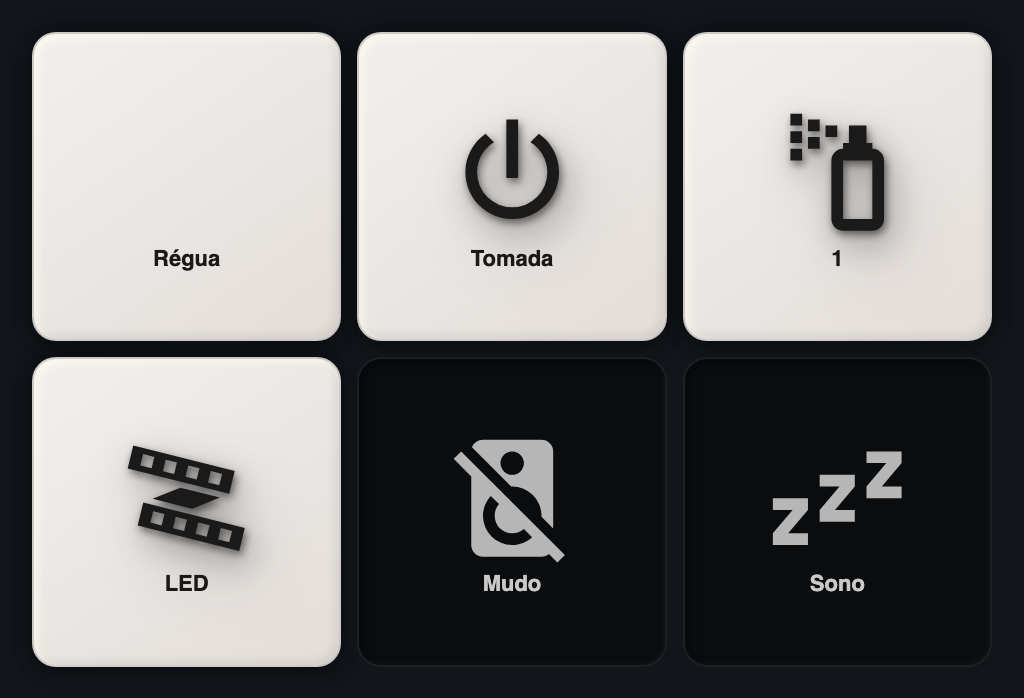
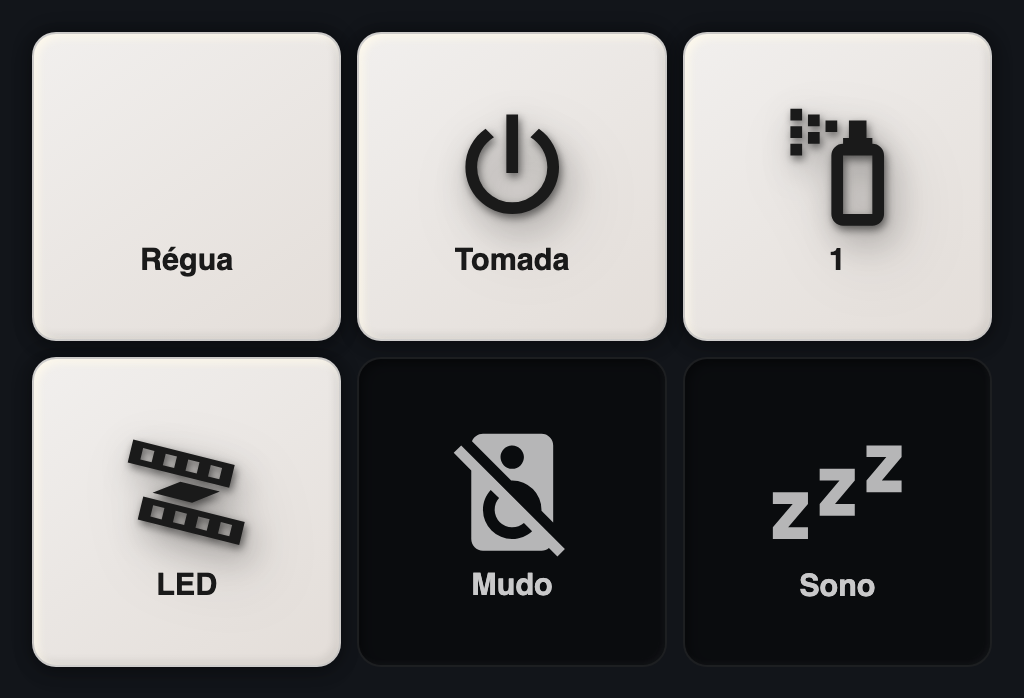
fix: 📐 the square that wasn't — lock the plug tile with size containment
Reported on the first real-screen test: the plug tile stretched, width and
height stopped matching and the button grid beside it fell out of line.

It did not reproduce on the bench at 480px — only on a narrow card. The tile
is a grid item, and every grid item carries min-height:auto. On a wide card
the content fit inside the square and aspect-ratio ruled; on a narrow one the
content started asking for more height than the square's side, the automatic
minimum beat aspect-ratio, and the tile grew.

Two halves, because neither works alone:

  · container-type:size on the tile (plus min-height:0). With size containment
    the content cannot influence the height any more — aspect-ratio has the
    only say. On its own, though, this would make content SPILL instead of
    stretch, which is just as ugly;
  · proportional typography in cqw. Everything inside is now a fraction of the
    square's side, taking 236px (half of a 480 card) as reference: at the
    usual sizes nothing changes, and on a narrow card the content shrinks with
    the box instead of demanding room. The appliance buttons got the same
    treatment.

Two traps that cost real time, both now regression checks:

  · cqw written ON the container itself resolves against ANOTHER container —
    or the viewport when there is none. The tile's border-radius: 7.63cqw
    became a 61px circle. Radius, padding and base font-size stay in px/%;
  · cqw is 1% of the CONTENT box, and the tile has padding: 10% per side. The
[…]

diff --git a/dist/mw-humidifier-card.js b/dist/mw-humidifier-card.js
@@ -128,6 +128,28 @@
     }
   };
 
+  /* Tipografia proporcional ao tile.
+   *
+   * O tile é um quadrado: `cqw` é 1% do lado dele. Tudo aqui dentro é
+   * expresso como fração desse lado, tomando 236 px (a metade de um card de
+   * 480) como referência — nos tamanhos de sempre nada muda de aparência, e
+   * num card estreito o conteúdo ENCOLHE em vez de exigir mais altura.
+   *
+   * Isso é o que garante o quadrado: com `container-type: size` no tile, o
+   * conteúdo não pode mais empurrar a altura; sem a tipografia proporcional,
+   * ele apenas vazaria para fora em vez de esticar.
+   *
+   * ARMADILHA: `cqw` só vale para DESCENDENTES do container. Escrito no
+   * próprio elemento que declara `container-type`, resolve contra o container
+   * ancestral — e, não havendo nenhum, contra o viewport. Foi assim que o
+   * `border-radius` do tile virou um círculo de 61 px. Por isso o raio, o
+   * padding e o font-size base do tile continuam em px/%. */
+  // 236 é o lado do tile (metade de um card de 480), mas `cqw` é 1% do
+  // CONTENT BOX do container — e o tile tem `padding: 10%` de cada lado.
+  // A referência, portanto, é 236 × 0,8. Errar isso encolhe tudo em 20%.
+  const REF = 236 * 0.8;
+  const cq = (px) => `${(Number(px) * 100 / REF).toFixed(2)}cqw`;
+
   // >>> paper-palette v1 — fonte canônica: /Volumes/SSD-T1-01/CLAUDE-SSD/IA/lib/paper-palette/paper-palette.js
   // 49 papéis encardidos: 7 matizes do arco-íris × 7 tons (1 = quase branco,
   // 7 = mais encardido). Saturação baixa de propósito — papel descansa a vista.
@@ -395,16 +417,16 @@
       if (c.image_url) {
         const f = isOff ? "filter:grayscale(40%) brightness(1.8);" : dead ? "filter:grayscale(100%);"
           : "filter:drop-shadow(0 1px 2px rgba(0,0,0,0.32)) drop-shadow(0 3px 5px rgba(0,0,0,0.18)) drop-shadow(0 5px 8px rgba(0,0,0,0.10));";
-        deviceImg = `<img src="${esc(c.image_url)}" alt="device" style="display:block;width:42px;height:42px;object-fit:contain;border-radius:6px;${anim}${opac}${f}transition:opacity .3s ease,filter .3s ease;">`;
+        deviceImg = `<img src="${esc(c.image_url)}" alt="device" style="display:block;width:${cq(42)};height:${cq(42)};object-fit:contain;border-radius:${cq(6)};${anim}${opac}${f}transition:opacity .3s ease,filter .3s ease;">`;
       } else if (c.device_icon) {
         const ic = isOn ? (c.color_on_name || "#1a1a1a") : (c.color_off_name || "rgba(255,255,255,0.5)");
         const f = isOn ? "filter:drop-shadow(0 1px 2px rgba(0,0,0,0.32)) drop-shadow(0 3px 5px rgba(0,0,0,0.18)) drop-shadow(0 5px 8px rgba(0,0,0,0.10));" : "";
-        deviceImg = `<ha-icon icon="${esc(c.device_icon)}" style="--mdc-icon-size:42px;width:42px;height:42px;color:${ic};display:flex;${anim}${opac}${f}transition:opacity .3s ease,color .3s ease;"></ha-icon>`;
+        deviceImg = `<ha-icon icon="${esc(c.device_icon)}" style="--mdc-icon-size:${cq(42)};width:${cq(42)};height:${cq(42)};color:${ic};display:flex;${anim}${opac}${f}transition:opacity .3s ease,color .3s ease;"></ha-icon>`;
       }
 
       let status;
       if (isOn || isOff) {
-        const knobLeft = isOn ? "26px" : "2px";
+        const knobLeft = isOn ? cq(26) : cq(2);
         if (c.control === false) {
           status = `<div class="tgl locked"><div class="track" style="background:${isOn ? "rgba(0,180,0,0.4)" : "rgba(100,100,100,0.4)"}"><div class="knob" style="left:${knobLeft};background:rgba(200,200,200,0.6);"></div></div></div>`;
         } else {
@@ -433,7 +455,7 @@
         const text = noReading(st.state) ? NO_READING
           : `${esc(fmtNumber(st.state, this._hass?.locale?.language))} ${esc(u)}`;
         return `<div class="row sensor" style="grid-area:${area}" data-entity="${esc(sensorId)}">
-          <ha-icon icon="${icon}" style="--mdc-icon-size:14px;width:14px;height:14px;color:${ic};"></ha-icon><span style="color:${tc};">${text}</span></div>`;
+          <ha-icon icon="${icon}" style="--mdc-icon-size:${cq(14)};width:${cq(14)};height:${cq(14)};color:${ic};"></ha-icon><span style="color:${tc};">${text}</span></div>`;
       };
 
       const powerColor = isOn ? c.color_power_on : c.color_power_off;
@@ -441,13 +463,13 @@
       const bigPower = () => {
         const st = this._st(c.sensor_potencia);
         if (!st) return `<div class="row" style="grid-area:power"></div>`;
-        const isz = Math.round(pSize * 0.62);
+        const isz = cq(Math.round(pSize * 0.62));
         const dash = noReading(st.state);
         const { value, unit } = dash
           ? { value: NO_READING, unit: "" }
           : fmtPower(st.state, st.attributes?.unit_of_measurement, this._hass?.locale?.language);
         return `<div class="row big sensor" style="grid-area:power" data-entity="${esc(c.sensor_potencia)}">
-          <ha-icon icon="mdi:flash" style="--mdc-icon-size:${isz}px;width:${isz}px;height:${isz}px;color:${powerColor};"></ha-icon
+          <ha-icon icon="mdi:flash" style="--mdc-icon-size:${isz};width:${isz};height:${isz};color:${powerColor};"></ha-icon
           ><span class="pv">${esc(value)}</span><span class="pu">${esc(unit)}</span></div>`;
       };
 
@@ -455,7 +477,7 @@
       // de margem — não mexe na grade, então o número não muda de tamanho.
       const lift = Number(c.power_lift);
       const liftCss = big && Number.isFinite(lift) && lift !== 0
-        ? `transform:translateY(${-lift}px);` : "";
+        ? `transform:translateY(-${cq(lift)});` : "";
 
       const hum = c.humidity_entity ? row(c.humidity_entity, "mdi:water-percent", "%", "humidity") : "";
       const areas = big
@@ -479,7 +501,7 @@
           : "none";
         const px = Number.isFinite(Number(c.protocol_offset_x)) ? Number(c.protocol_offset_x) : 10;
         const py = Number.isFinite(Number(c.protocol_offset_y)) ? Number(c.protocol_offset_y) : 10;
-        protocol = `<ha-icon class="proto" icon="${esc(c.protocol_icon)}" style="bottom:${py}px;right:${px}px;width:22px;height:22px;color:${pc};filter:${pf};"></ha-icon>`;
+        protocol = `<ha-icon class="proto" icon="${esc(c.protocol_icon)}" style="bottom:${cq(py)};right:${cq(px)};width:${cq(22)};height:${cq(22)};color:${pc};filter:${pf};"></ha-icon>`;
       }
 
       const css = `
@@ -492,34 +514,34 @@
         .wm{position:absolute;top:0;left:0;width:100%;height:100%;z-index:0;pointer-events:none;
           background-size:60%;background-position:center center;background-repeat:no-repeat;border-radius:inherit;}
         .dev{grid-area:device_img;justify-self:start;align-self:start;position:relative;z-index:1;line-height:0;overflow:visible;}
-        .stat{grid-area:status;align-self:start;justify-self:end;font-size:10px;font-weight:500;position:relative;z-index:1;}
-        .nm{grid-area:n;font-weight:600;font-size:14px;color:${nameColor};align-self:center;justify-self:start;
-          padding-top:6px;padding-bottom:6px;white-space:normal;word-wrap:break-word;text-align:left;
+        .stat{grid-area:status;align-self:start;justify-self:end;font-size:${cq(10)};font-weight:500;position:relative;z-index:1;}
+        .nm{grid-area:n;font-weight:600;font-size:${cq(14)};color:${nameColor};align-self:center;justify-self:start;
+          padding-top:${cq(6)};padding-bottom:${cq(6)};white-space:normal;word-wrap:break-word;text-align:left;
           text-transform:none;position:relative;z-index:1;${liftCss}}
         /* text-transform:none na linha, não no card: o uppercase herdado do
            template original transformava "153 mA" em "153 MA" — miliampère
            vira megaampère, seis ordens de grandeza de diferença. */
-        .row{padding-bottom:4px;align-self:center;justify-self:start;font-size:10px;font-weight:500;
-          position:relative;z-index:1;display:inline-flex;align-items:center;gap:5px;
+        .row{padding-bottom:${cq(4)};align-self:center;justify-self:start;font-size:${cq(10)};font-weight:500;
+          position:relative;z-index:1;display:inline-flex;align-items:center;gap:${cq(5)};
           text-transform:none;}
         .row ha-icon{flex:none;line-height:0;display:flex;align-items:center;}
         .row.sensor{cursor:pointer;-webkit-tap-highlight-color:transparent;touch-action:manipulation;}
-        .row.big{gap:6px;align-items:baseline;padding-bottom:2px;${liftCss}}
+        .row.big{gap:${cq(6)};align-items:baseline;padding-bottom:${cq(2)};${liftCss}}
         .row.big ha-icon{align-self:center;flex:none;
           filter:${isOn ? "drop-shadow(0 1px 0 rgba(255,255,255,0.55))" : "none"};}
         /* tabular-nums trava a largura do dígito: o número não dança a cada leitura */
-        .row.big .pv{font-size:${pSize}px;font-weight:700;line-height:1.05;color:${powerColor};
+        .row.big .pv{font-size:${cq(pSize)};font-weight:700;line-height:1.05;color:${powerColor};
           font-variant-numeric:tabular-nums;font-feature-settings:"tnum" 1;letter-spacing:-0.5px;
           text-shadow:${isOn ? "0 1px 0 rgba(255,255,255,0.55)" : "none"};}
-        .row.big .pu{font-size:${Math.round(pSize * 0.4)}px;font-weight:600;color:${powerColor};
+        .row.big .pu{font-size:${cq(Math.round(pSize * 0.4))};font-weight:600;color:${powerColor};
           opacity:.72;letter-spacing:0;}
-        .tile span{font-size:12px;font-weight:500;line-height:1.4;}
+        .tile span{font-size:${cq(12)};font-weight:500;line-height:1.4;}
         .proto{position:absolute;z-index:2;pointer-events:none;line-height:0;}
         .tgl{display:inline-flex;align-items:center;}
         .tgl.live{cursor:pointer;-webkit-tap-highlight-color:transparent;touch-action:manipulation;}
         .tgl.locked{cursor:not-allowed;opacity:0.35;}
-        .track{width:48px;height:24px;border-radius:12px;position:relative;transition:background .3s;pointer-events:none;}
-        .knob{width:20px;height:20px;border-radius:50%;position:absolute;top:2px;transition:left .3s;pointer-events:none;}
+        .track{width:${cq(48)};height:${cq(24)};border-radius:${cq(12)};position:relative;transition:background .3s;pointer-events:none;}
+        .knob{width:${cq(20)};height:${cq(20)};border-radius:50%;position:absolute;top:${cq(2)};transition:left .3s;pointer-events:none;}
         @keyframes mhc-spin{from{transform:rotate(0deg);}to{transform:rotate(360deg);}}`;
 
       const html = `
@@ -596,14 +618,19 @@
 
       const cols = Math.max(1, Number(c.button_columns) || 2);
       const css = `
-        .btns{display:grid;grid-template-columns:repeat(${cols},1fr);gap:${Number(c.gap) || 0}px;align-content:start;}
-        .btn{position:relative;aspect-ratio:1 / 1;display:flex;flex-direction:column;
-          align-items:center;justify-content:center;gap:2px;box-sizing:border-box;overflow:hidden;
-          font-size:11px;font-weight:600;cursor:pointer;-webkit-tap-highlight-color:transparent;
+        .btns{display:grid;grid-template-columns:repeat(${cols},1fr);gap:${Number(c.gap) || 0}px;
+          align-content:start;min-width:0;min-height:0;}
+        /* container-type:size + aspect-ratio = o botão é quadrado e o rótulo
+           não pode mais empurrá-lo; e cqw deixa o texto proporcional ao
+           quadrado, então cabe em qualquer largura de card */
+        .btn{position:relative;aspect-ratio:1 / 1;container-type:size;min-width:0;min-height:0;
+          display:flex;flex-direction:column;
+          align-items:center;justify-content:center;gap:2%;box-sizing:border-box;overflow:hidden;
+          font-weight:600;cursor:pointer;-webkit-tap-highlight-color:transparent;
           touch-action:manipulation;transition:background .3s ease,box-shadow .3s ease,border-color .3s ease,color .3s ease;}
-        .btn ha-icon{display:flex;align-items:center;justify-content:center;
+        .btn ha-icon{display:flex;align-items:center;justify-content:center;flex:none;
           transition:color .3s ease,filter .3s ease;}
-        .btn .bn{font-size:11px;font-weight:600;line-height:1.1;max-width:92%;text-align:center;
+        .btn .bn{font-size:10cqw;font-weight:600;line-height:1.1;max-width:92%;text-align:center;
           overflow:hidden;text-overflow:ellipsis;white-space:nowrap;}`;
 
       return { css, html: `<div class="btns">${cells}</div>` };
@@ -628,14 +655,27 @@
 
       const twoUp = withPower && withButtons;
       const heightCss = c.height ? `height:${esc(c.height)};` : "";
-      // no modo com tomada a proporção 1:1 do bloco da esquerda é quem define a
+      // No modo com tomada a proporção 1:1 do bloco da esquerda é quem define a
       // altura do card — as duas colunas 1fr fazem os quatro botões fecharem
-      // exatamente a mesma altura. Nos modos de bloco único, o card preenche.
-      const tileShape = twoUp ? "aspect-ratio:1 / 1;" : "height:100%;";
+      // exatamente a mesma altura.
+      //
+      // `container-type:size` é o que TRAVA o quadrado: com contenção de
+      // tamanho, o conteúdo não pode mais empurrar a altura. Sem ela, um card
+      // estreito (o conteúdo pedindo mais do que o lado do quadrado) fazia o
+      // tile esticar e desalinhar da grade de botões. `min-height:0` desarma o
+      // tamanho mínimo automático que todo item de grade carrega.
+      // Nos modos de bloco único não há com o que alinhar: o tile preenche o
+      // que receber, e a contenção fica só no eixo horizontal.
+      const tileShape = twoUp
+        ? "aspect-ratio:1 / 1;container-type:size;min-width:0;min-height:0;align-self:start;"
+        : `height:100%;container-type:${c.height ? "size" : "inline-size"};min-width:0;`;
 
       if (!this.shadowRoot) this.attachShadow({ mode: "open" });
       this.shadowRoot.innerHTML = `
         <style>
+          /* o elemento custom nasce inline: num pai flex ele encolheria para o
+             conteúdo. Card é bloco, e ocupa a largura que recebe. */
+          :host{display:block;width:100%;box-sizing:border-box;}
           ha-card{font-family:'Graphik',sans-serif;background:none;border:none;box-shadow:none;
             padding:0;overflow:visible;${heightCss}}
           .wrap{display:grid;gap:${Number(c.gap) || 0}px;align-items:start;
@@ -1182,7 +1222,7 @@
     documentationURL: "https://github.com/visaodeempresa/mw-ha-humidifier-card",
   });
 
-  console.info("%c MW-HUMIDIFIER-CARD %c 0.1.0 ",
+  console.info("%c MW-HUMIDIFIER-CARD %c 0.1.1 ",
     "background:#1a1a1a;color:#fdfaf3;font-weight:700;",
     "background:#8e7cc3;color:#1a1a1a;font-weight:700;");
 })();

diff --git a/tools/probe.js b/tools/probe.js
@@ -148,6 +148,35 @@ check("potência em destaque (22,7)", wp.includes(">22,7<"));
 check("unidade W ao lado do número", wp.includes('class="pu">W<'));
 check("V e A escondidos com a potência em destaque",
   !wp.includes("mdi:lightning-bolt") && !wp.includes("mdi:current-ac"));
+
+// --- o quadrado (regressão de 07/08: no HA o tile esticava e desalinhava) ---
+const tileRule = wp.slice(wp.indexOf(".tile{"), wp.indexOf(".tgrid{"));
+check("tile com contenção de tamanho — conteúdo não empurra a altura",
+  wp.includes("container-type:size"));
+check("tile com aspect-ratio 1/1 e min-height:0",
+  wp.includes("aspect-ratio:1 / 1") && wp.includes("min-height:0"));
+check("botão do aparelho também é container quadrado",
+  wp.includes(".btn{position:relative;aspect-ratio:1 / 1;container-type:size"));
+// ARMADILHA: cqw escrito no PRÓPRIO container resolve contra o viewport —
+// foi assim que o border-radius do tile virou um círculo de 61 px
+check("nenhuma unidade de container na regra do próprio .tile",
+  !/cqw/.test(tileRule), tileRule.slice(0, 160));
+check("tipografia interna proporcional ao tile (cqw nos descendentes)",
+  /\.nm\{[^}]*font-size:[\d.]+cqw/.test(wp) && /\.row\{[^}]*font-size:[\d.]+cqw/.test(wp));
+// cqw é 1% do CONTENT BOX, e o tile tem padding:10% de cada lado — a
+// referência é 236 × 0,8. Com a referência errada tudo encolhe 20%.
+check("no tamanho de referência (236px) o cqw devolve o px de antes",
+  wp.includes("font-size:7.42cqw") && wp.includes("width:25.42cqw"),
+  "14px -> 7.42cqw e 48px -> 25.42cqw");
+check("o card é bloco (num pai flex não encolhe para o conteúdo)",
+  wp.includes(":host{display:block"));
+
+const single = html({ mode: "only_power", entity: SUITE.entity, sensor_potencia: SUITE.sensor_potencia });
+check("bloco único sem altura definida usa contenção só na largura",
+  single.includes("container-type:inline-size"), "container-type:size exigiria altura definida");
+const singleH = html({ mode: "only_power", entity: SUITE.entity, sensor_potencia: SUITE.sensor_potencia, height: "240px" });
+check("bloco único COM altura definida pode conter os dois eixos",
+  singleH.includes("container-type:size"));
 check("marca d'água desenhada", wp.includes('class="wm"'));
 check("selinho de protocolo", wp.includes("mdi:wifi"));
 check("quatro botões", (wp.match(/class="btn"/g) || []).length === 4);

diff --git a/HISTORICO.md b/HISTORICO.md
@@ -1,5 +1,44 @@
 # Histórico — mw-ha-humidifier-card
 
+## 2026-08-07 — v0.1.1: o quadrado que não era quadrado
+
+Reportado pelo dono no primeiro teste na tela: **a tomada esticou**. Largura e
+altura deixaram de ser iguais e o bloco de botões ao lado ficou desalinhado.
+
+Não reproduzia na bancada a 480 px — só num card estreito. A causa: o tile é
+item de grade, e todo item de grade carrega `min-height: auto` (o tamanho
+mínimo automático). Num card largo o conteúdo cabia dentro do quadrado e o
+`aspect-ratio` mandava; num card estreito o conteúdo passava a pedir mais
+altura do que o lado do quadrado, o mínimo automático vencia o `aspect-ratio`
+e o tile crescia.
+
+Correção em duas partes, porque uma sozinha não resolve:
+
+1. **`container-type: size` no tile** (mais `min-height: 0`). Com contenção de
+   tamanho, o conteúdo não pode mais influenciar a altura: o `aspect-ratio` é
+   a única palavra. Só isso, porém, faria o conteúdo *vazar* para fora em vez
+   de esticar — o que é igualmente feio.
+2. **Tipografia proporcional ao tile**, em `cqw`. Tudo lá dentro passou a ser
+   fração do lado do quadrado, tomando 236 px (a metade de um card de 480)
+   como referência: nos tamanhos de sempre nada muda de aparência, e num card
+   estreito o conteúdo encolhe junto em vez de exigir espaço. O botão do
+   aparelho ganhou o mesmo tratamento.
+
+Duas armadilhas que custaram descoberta, as duas já viradas verificação:
+
+- **`cqw` no PRÓPRIO container resolve contra outro container** (ou contra o
+  viewport, não havendo nenhum). O `border-radius: 7.63cqw` do tile virou um
+  círculo de 61 px. Raio, padding e font-size base do tile ficaram em px/%.
+- **`cqw` é 1% do CONTENT BOX**, e o tile tem `padding: 10%` de cada lado. A
+  referência é 236 × 0,8 = 188,8. Com 236, tudo saía 20% menor.
+
+De quebra, `:host{display:block}` — o elemento custom nasce inline e num pai
+flex encolhia para o conteúdo.
+
+Verificado na bancada em 7 arranjos (largura solta, pai de altura fixa, tema
+com `ha-card{height:100%}`, pai flex, e cards de 293 e 200 px): tile quadrado
+e da mesma altura do bloco de botões em todos. **Conferência na tela é do dono.**
+
 ## 2026-08-07 — nascimento (v0.1.0)
 
 Pedido: «tenho um umidificador inteligente conectado em uma tomada

diff --git a/README.md b/README.md
@@ -369,6 +369,12 @@ No `with_power` as duas colunas são iguais (`1fr 1fr`) e o bloco da tomada é
 altura. Com a tomada desligada os botões somem e as duas colunas continuam lá:
 **a altura do card não muda**, e a parede de umidificadores não dança.
 
+O quadrado é garantido por `container-type: size`: com contenção de tamanho o
+conteúdo **não pode** empurrar a altura do tile. E para que ele não vaze em vez
+de esticar, toda a tipografia de dentro é proporcional ao lado do quadrado
+(`cqw`), tomando 236 px como referência. Na prática: o card tem a mesma cara
+em 480 px e em 200 px de largura, e a tomada é quadrada em qualquer uma.
+
 Nos modos de bloco único o card preenche o espaço que receber — use
 `square: true` na grade do Lovelace, ou a propriedade `height`.
 
@@ -376,7 +382,7 @@ Nos modos de bloco único o card preenche o espaço que receber — use
 
 ```bash
 node --check dist/mw-humidifier-card.js
-node tools/probe.js                 # 66 verificações, sem navegador
+node tools/probe.js                 # 75 verificações, sem navegador
 ```
 
 O probe instancia card e editor fora do browser com as entidades **reais** da

diff --git a/PLANO.md b/PLANO.md
@@ -27,7 +27,7 @@ nada é compartilhado (ADR 0002) fora da paleta de papel, que é dado.
       umidificador → botões (seletor múltiplo filtrado), 3 seções expansíveis
       e a seção de cores com alfa.
 - [x] Editor preserva a forma longa `{entity, icon, name}` escrita à mão.
-- [x] Probe headless (66 verificações) com as entidades reais da casa.
+- [x] Probe headless (75 verificações) com as entidades reais da casa.
 - [x] Bancada visual em `memoria-ia/harness/` (ícones MDI de verdade).
 - [x] README com 6 exemplos, todos com `entity_id` reais.
 
